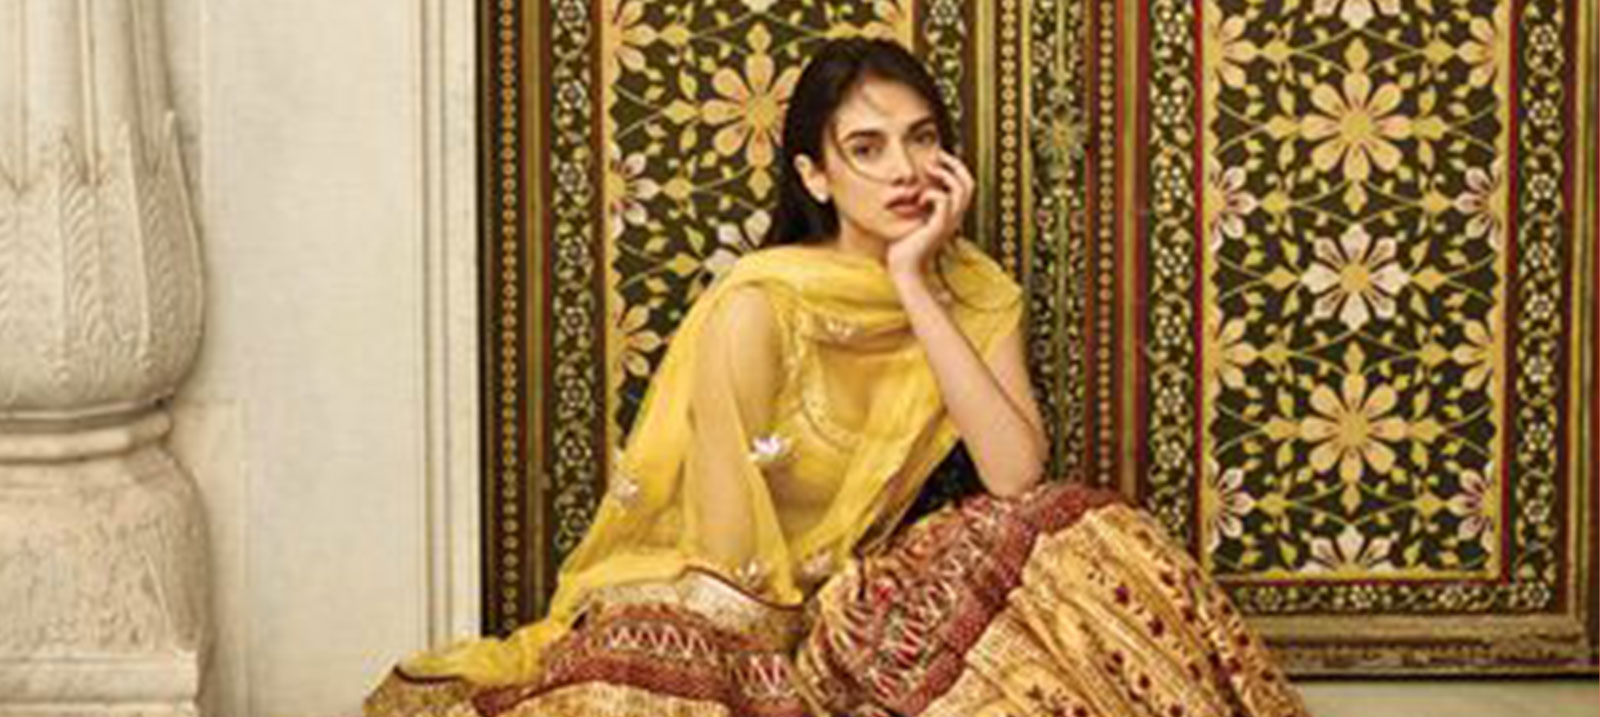
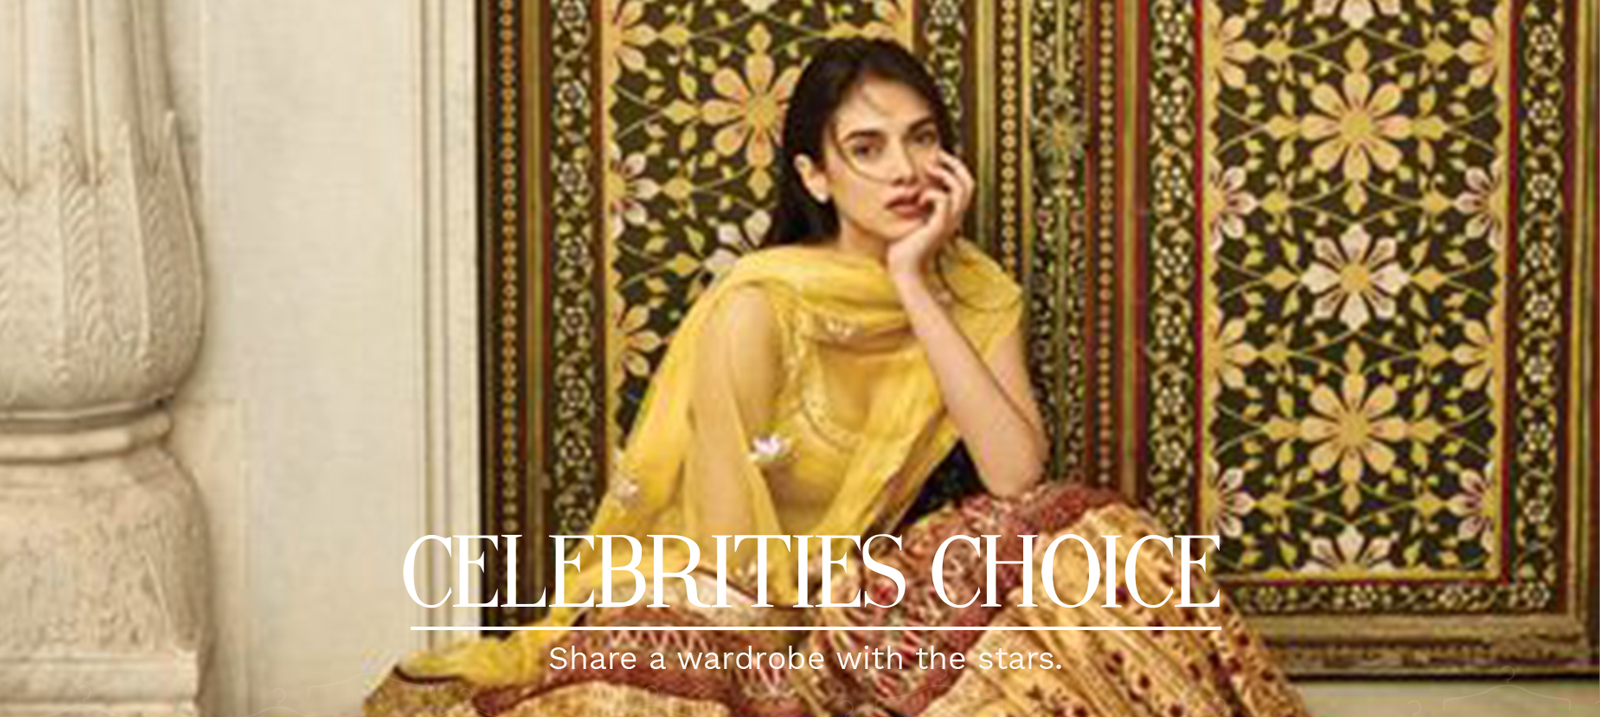
done W.O.L.F

Changed region(s): [[0.25, 0.7364, 0.7812, 0.9512]]

diff --git a/sass/main.scss b/sass/main.scss
@@ -30,6 +30,11 @@ $brand-google: #d34836 !default;
   font-family: "fine-style";
   src: url('../fonts/fine-style.TTF');
 }
+.font-serif { font-family: "fine-serif"; }
+
+.font-finestyle { font-family: "fine-style"; }
+
+.content { background-color: $brand-light-pink; }
 body {
   font-family: "Work Sans";
 }
@@ -279,7 +284,7 @@ header {
   padding: 5px 0;
 }
 .hamburger {
-  margin: 10px 0px 5px;
+  margin: 12px 0px 6px;
   cursor: pointer;
   display: inline-block;
   .icon-bar {
@@ -320,12 +325,16 @@ header {
   @include transform(translateX(-50%));
   z-index: 20;
 }
+.user-detail {
+  margin: 5px 0;
+  img { margin-bottom: 5px; }
+}
 nav {
   @include size(350px,100%);
   padding: 20px;
   @include transition(all 300ms linear);
   position: fixed;
-  top: 67px;
+  top: 72px;
   z-index: 11;
   .menu-name {
     font-size: 18px;
@@ -386,11 +395,42 @@ nav {
   }
 }
 .customerspeak-slider {
+  padding: 110px 0px 50px;
+  margin-top: -110px;
   background: url('../img/anchor.png') #dc795e;
   h4 {
     border-bottom: 1px solid $brand-dark-blue;
     padding-bottom: 5px;
     font-size: 35px;
+  }
+  .flex-direction-nav a { top: 20%; }
+  .flexslider:hover .flex-direction-nav .flex-prev {
+    left: 100px;
+    opacity: 1;
+   }
+  .flexslider:hover .flex-direction-nav .flex-next {
+    right: 100px;
+    opacity: 1;
+   }
+  .flex-direction-nav a.flex-next {
+    right: 100px;
+    opacity: 1;
+    &:before {
+    content: "\f105";
+    font: normal normal normal 14px/1 FontAwesome;
+    font-size: 50px;
+    color: $brand-dark-blue;
+  }
+}
+  .flex-direction-nav a.flex-prev{
+    left: 100px;
+    opacity: 1;
+    &:before {
+    content: "\f104";
+    font: normal normal normal 14px/1 FontAwesome;
+    font-size: 50px;
+    color: $brand-dark-blue;
+    }
   }
   .client-speak {
     width: 50%;
@@ -404,10 +444,29 @@ nav {
      }
   }
 }
+.how-it-works {
+  min-height: 350px;
+  margin-top: -40px;
+  z-index: 2;
+  background: url('../img/work-bg.jpg');
+  cursor: pointer;
+}
+.play { font-size: 50px; }
+.talk-us {
+  padding: 10px 20px;
+  position: absolute;
+  top: 40%;
+  right: -43px;
+  z-index: 2;
+  @include transform(rotate(-90deg));
+  background-color: $brand-pink;
+  color: $brand-dark-blue;
+  span { font-size: 15px; }
+}
 // home end
 
 // footer
-footer { padding: 70px 0 20px; }
+footer { padding: 50px 0 20px; }
 .links {
   ul {
     padding: 0;
@@ -458,6 +517,14 @@ footer { padding: 70px 0 20px; }
   .footer-head { font-size: 21px; }
   font-size: 17px;
 }
+.read-more {
+  @include button-variant(#dc795e, transparent, #dc795e);
+  &:hover {
+    background-color: #d35634;
+    color: $brand-dark-blue;
+  }
+}
+.ting:hover { color: $brand-pink; }
 // footer
 
 @import "fancybox-override";

diff --git a/views/content/home.html b/views/content/home.html
@@ -1,4 +1,4 @@
-<div class="home-slider">
+<div class="home-slider relate">
   <flex-slider flex-slide="s in mySlides track by $index" prev-text="" next-text="" direction-nav="false">
     <li>
       <img ng-src="{{s}}" class="img-responsive">
@@ -8,44 +8,51 @@
     <span class="text-uppercase">talk to us</span>
   </div>
 </div>
+<div class="container">
+  <div class="how-it-works relate">
+    <div class="play get-center font-serif">
+      <span>HOW IT <img src="img/play-work.png" alt="" class=""> WORKS</span>
+    </div>
+  </div>
+</div>
 <div class="occasion-main">
   <div class="container">
     <div class="row-flex">
-      <div class="relate">
+      <div class="relate mt20 mb20 pointer">
         <img src="img/wedding.jpg" alt="" class="img-responsive">
       </div>
     </div>
     <div class="row-flex">
       <div class="col-flex">
-        <div class="relate">
+        <div class="relate mr10 pointer">
           <img src="img/sangeet.jpg" alt="" class="img-responsive">
         </div>
       </div>
       <div class="col-flex">
-        <div class="relate">
+        <div class="relate ml10 pointer">
           <img src="img/mehendi.jpg" alt="" class="img-responsive">
         </div>
       </div>
     </div>
     <div class="row-flex">
-      <div class="relate">
+      <div class="relate mt20 mb20 pointer">
         <img src="img/cocktail.jpg" alt="" class="img-responsive">
       </div>
     </div>
     <div class="row-flex">
       <div class="col-flex">
-        <div class="relate">
+        <div class="relate mr10 pointer">
           <img src="img/reception.jpg" alt="" class="img-responsive">
         </div>
       </div>
       <div class="col-flex">
-        <div class="relate">
+        <div class="relate ml10 pointer">
           <img src="img/engagement.jpg" alt="" class="img-responsive">
         </div>
       </div>
     </div>
     <div class="row-flex">
-      <div class="relate">
+      <div class="relate mt20 mb20 pointer">
         <img src="img/celebrity.jpg" alt="" class="img-responsive">
       </div>
     </div>

diff --git a/views/footer.html b/views/footer.html
@@ -57,13 +57,13 @@
         <div class="about">
           <h5 class="footer-head m-clear mb20">About Us</h5>
           <p>The Stylease is exactly what the name suggests - Leasing out high-end fashion with ease. It is an e-commerce portal that empowers the modern woman to save time and still be at the top of her game as far as her ethnic wardrobe is concerned.</p>
-          <button class="btn btn-outline read-more">Read More</button>
+          <button class="btn read-more">Read More</button>
         </div>
       </div>
     </div>
-    <div class="text-center">
-      <p class="text-uppercase inline-block">&copy; {{template.year}} All Right Resvered.</p>
-      <p class="text-uppercase inline-block">Designed by <a href="http://www.ting.in" target="_blank">TING</a>.</p>
+    <div class="text-center mt20">
+      <p class="text-uppercase inline-block m-clear mr20">&copy; {{template.year}} All Right Resvered.</p>
+      <p class="text-uppercase inline-block m-clear ml20">Designed by <a href="http://www.ting.in" target="_blank" class="color-white ting">TING</a>.</p>
     </div>
   </div>
 </footer>

diff --git a/views/header.html b/views/header.html
@@ -17,18 +17,14 @@
       </div>
       <div class="col-xs-3">
         <div class="pull-right">
-          <div class="row">
-            <div class="col-xs-6">
-              <div class="signin">
-                <img src="img/profile.png" alt="" class="img-responsive">
-                <span ng-click="signUp();">Sign in</span>
-              </div>
+          <div class="user-detail">
+            <div class="signin inline-block mr20 text-center">
+              <img src="img/profile.png" alt="" class="m-center img-responsive">
+              <span class="light-pink" ng-click="signUp();">Sign in</span>
             </div>
-            <div class="col-xs-6">
-              <div class="cart">
-                <img src="img/cart.png" alt="" class="img-responsive">
-                <span>Cart</span>
-              </div>
+            <div class="cart inline-block ml20 text-center">
+              <img src="img/cart.png" alt="" class="m-center img-responsive">
+              <span class="light-pink">Cart</span>
             </div>
           </div>
         </div>

diff --git a/indexproduction.html b/indexproduction.html
@@ -3,7 +3,7 @@
 
 <head ng-controller="headerctrl">
     <meta charset="utf-8">
-    <base href="http://wohlig.co.in/angularframework/">
+    <!-- <base href="http://wohlig.co.in/angularframework/"> -->
     <meta http-equiv="X-UA-Compatible" content="IE=edge">
     <meta http-equiv="Content-Type" content="text/html; charset=utf-8" />
     <meta name="viewport" content="width=device-width, initial-scale=1.0">
@@ -13,7 +13,7 @@
     <link rel="shortcut icon" href="img/favicon.ico" />
     <link rel="stylesheet" type="text/css" href="w.css" />
     <script>
-      var isproduction=true;
+      var isproduction=false;
     </script>
     <script src="w.js"></script>
 
